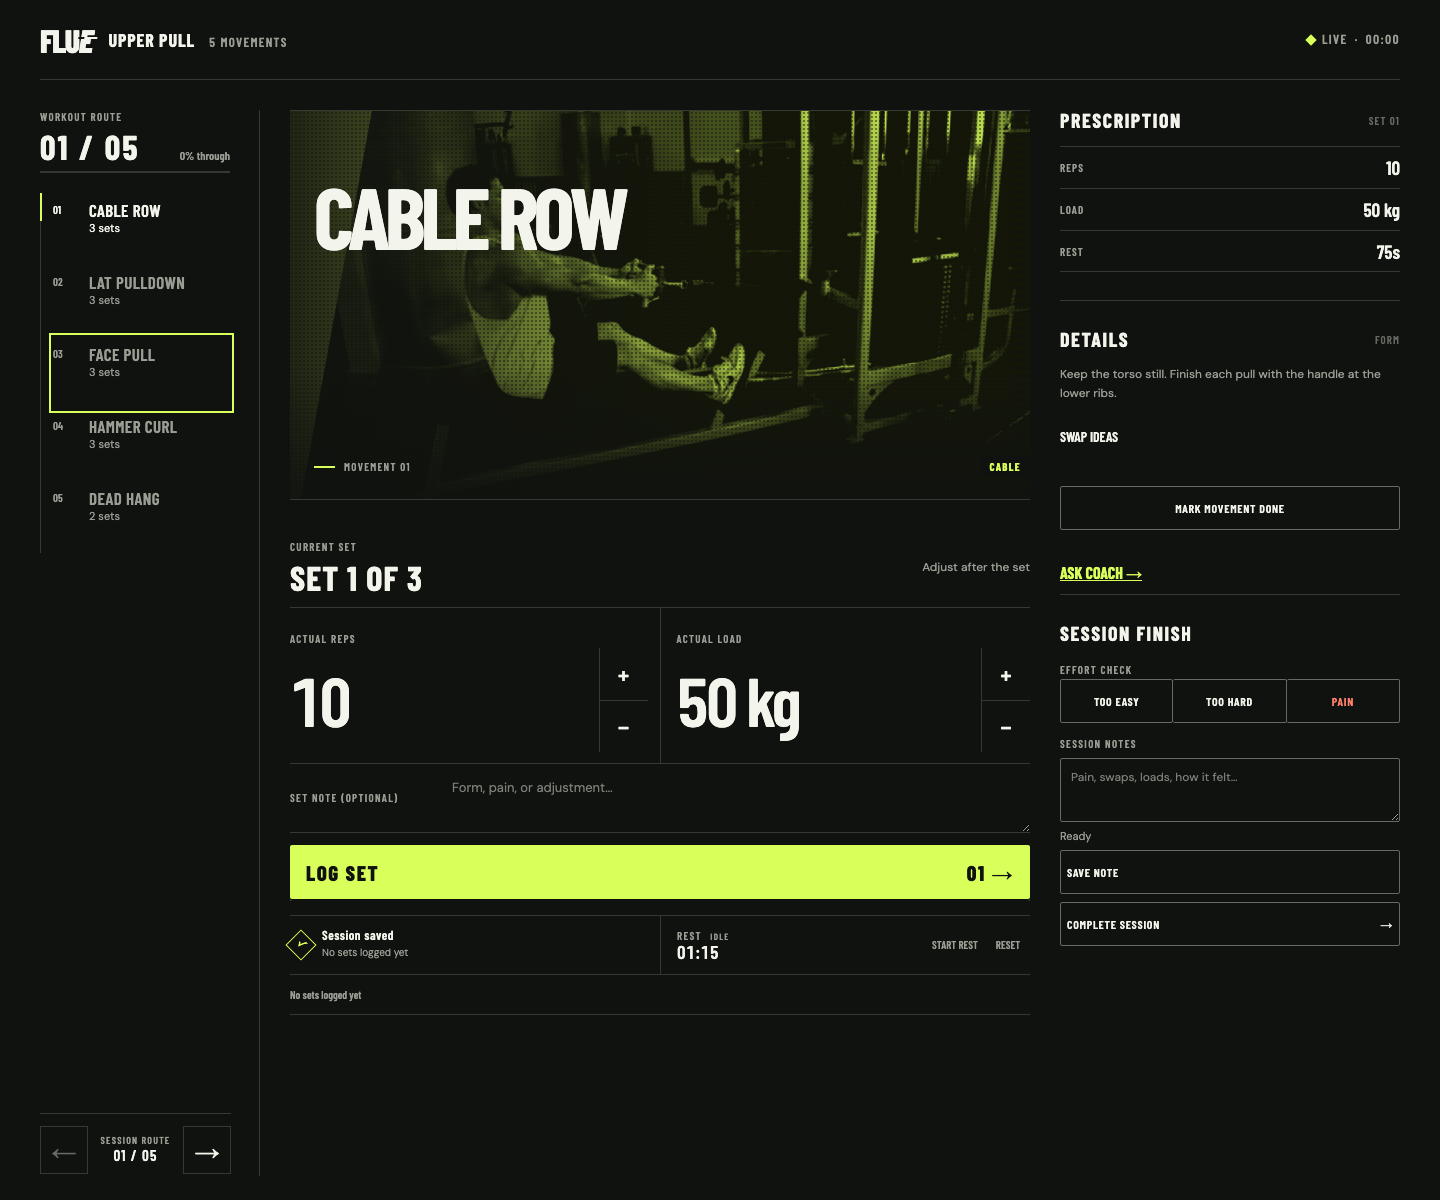
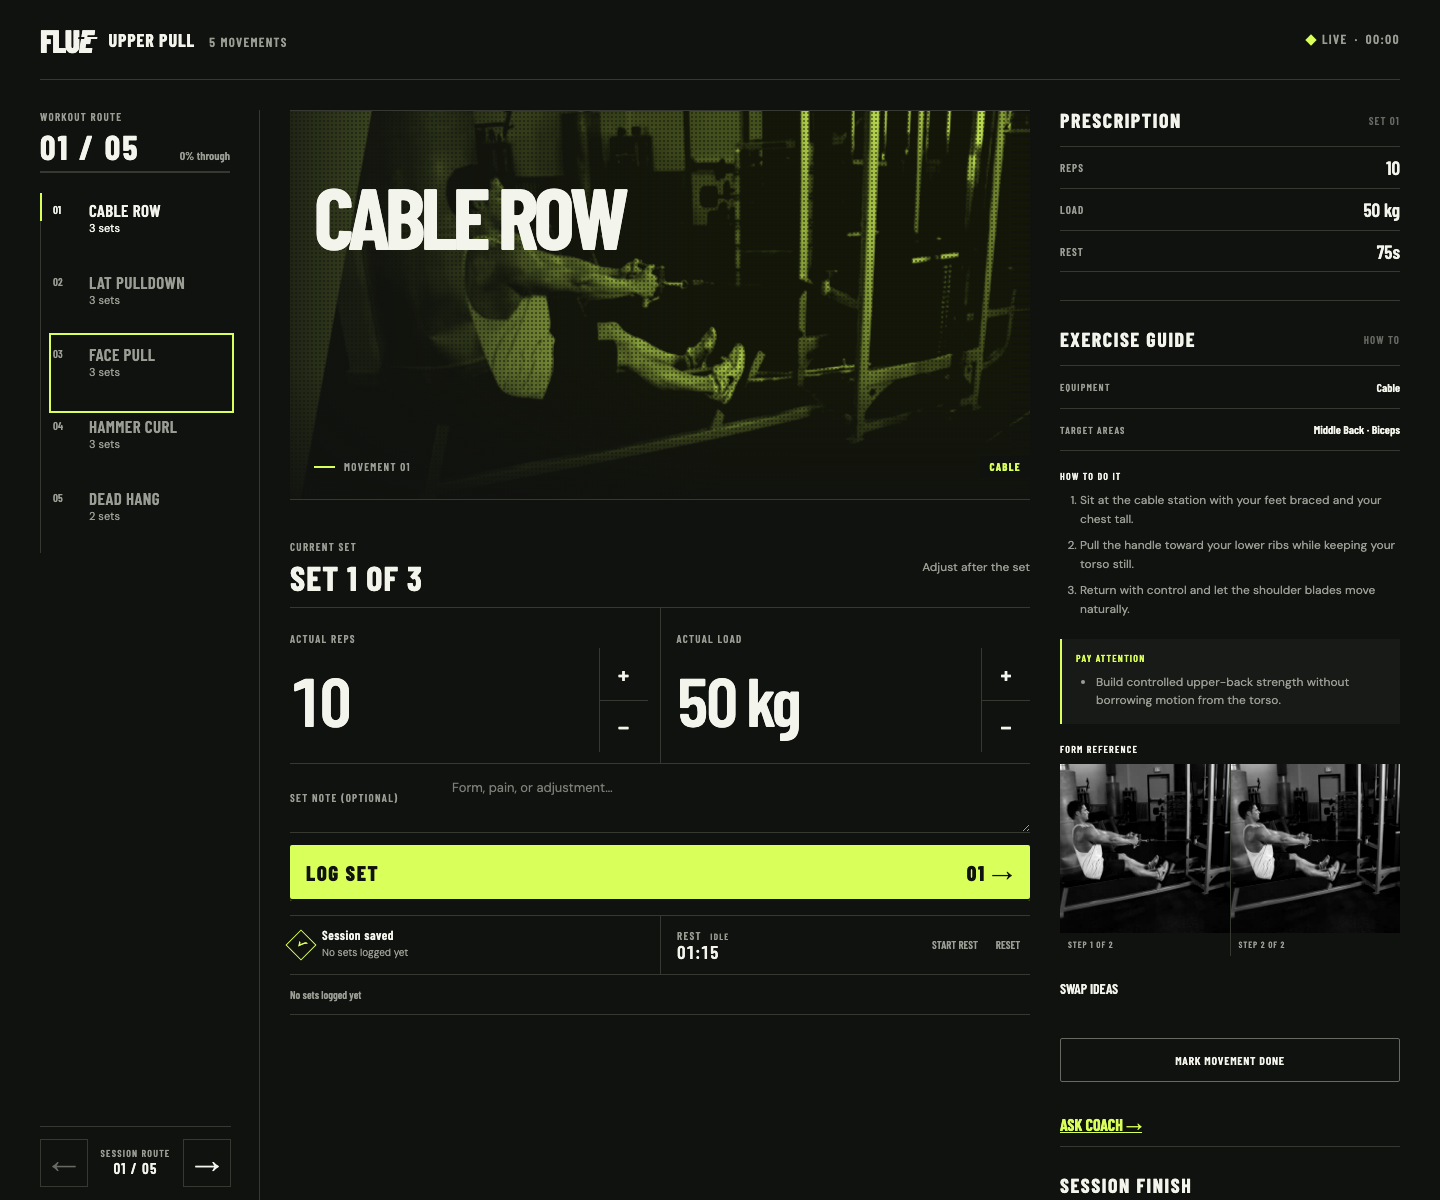
feat: add practical exercise guidance

diff --git a/src/session/LiveTrainingSession.tsx b/src/session/LiveTrainingSession.tsx
@@ -218,7 +218,7 @@ function ExerciseContext({ exercise, index, model }: { exercise: LiveExercise; i
         <MetricStrip metrics={exercise.metrics} variant="context" />
         {exercise.plan_note?.full ? <p class="plan-copy">{exercise.plan_note.full}</p> : null}
       </section>
-      {exercise.has_optional_details ? <section class="context-section details-panel"><header><h2>Details</h2><span>Form</span></header>{exercise.rationale ? <p>{exercise.rationale}</p> : null}<Alternatives exercise={exercise} /></section> : null}
+      {exercise.has_optional_details ? <ExerciseGuide exercise={exercise} /> : null}
       {!model.session.is_completed ? <button type="button" class="movement-done" data-write-control data-done data-completed={exercise.is_done ? "true" : undefined}>{exercise.is_done ? "Movement complete ✓" : "Mark movement done"}</button> : null}
       <a class="text-link coach-link" href={`/chat?profile_id=${encodeURIComponent(model.session.profile_id)}&session_id=${encodeURIComponent(String(model.session.id))}`}>Ask coach →</a>
     </section>
@@ -235,6 +235,44 @@ function ExerciseMedia({ exercise, eager }: { exercise: LiveExercise; eager: boo
       <h2>{exercise.name}</h2>
       <figcaption><span>Movement {String(exercise.index + 1).padStart(2, "0")}</span><strong>{media.caption}</strong></figcaption>
     </figure>
+  );
+}
+
+function ExerciseGuide({ exercise }: { exercise: LiveExercise }) {
+  const guide = exercise.guidance;
+  return (
+    <section class="context-section details-panel exercise-guide">
+      <header><h2>Exercise guide</h2><span>How to</span></header>
+      {guide.equipment || guide.target_areas.length ? (
+        <dl class="guide-facts">
+          {guide.equipment ? <div><dt>Equipment</dt><dd>{guide.equipment}</dd></div> : null}
+          {guide.target_areas.length ? <div><dt>Target areas</dt><dd>{guide.target_areas.join(" · ")}</dd></div> : null}
+        </dl>
+      ) : null}
+      {guide.rationale ? <div class="guide-block"><h3>Why this movement</h3><p>{guide.rationale}</p></div> : null}
+      {guide.instructions.length ? <div class="guide-block"><h3>How to do it</h3><ol>{guide.instructions.map((instruction: string) => <li>{instruction}</li>)}</ol></div> : null}
+      {guide.attention.length ? <div class="guide-block attention-block"><h3>Pay attention</h3><ul>{guide.attention.map((tip: string) => <li>{tip}</li>)}</ul></div> : null}
+      <ExerciseGallery exercise={exercise} />
+      <Alternatives exercise={exercise} />
+    </section>
+  );
+}
+
+function ExerciseGallery({ exercise }: { exercise: LiveExercise }) {
+  if (!exercise.media.gallery.length) return null;
+  const total = exercise.media.gallery.length;
+  return (
+    <div class="guide-block form-reference">
+      <h3>Form reference</h3>
+      <div class="exercise-gallery">
+        {exercise.media.gallery.map((image: string, index: number) => (
+          <figure>
+            <img src={image} alt={`${exercise.name}, step ${index + 1} of ${total}`} loading="lazy" decoding="async" referrerpolicy="no-referrer" onerror="this.closest('figure').remove();" />
+            <figcaption>Step {index + 1} of {total}</figcaption>
+          </figure>
+        ))}
+      </div>
+    </div>
   );
 }
 

diff --git a/docs/design/live-session/comparison.md b/docs/design/live-session/comparison.md
@@ -27,6 +27,7 @@ Approved state authority: [approved-states.png](./approved-states.png)
 | Completed / read-only | [completed-read-only-mobile.png](./implementation/completed-read-only-mobile.png) | Replaces write fields with saved values and locks while review navigation remains available. |
 | Empty session | [empty-mobile.png](./implementation/empty-mobile.png) | Uses one plain editorial empty region and a coach route rather than an empty card. |
 | Long name and guidance | [long-copy-mobile.png](./implementation/long-copy-mobile.png) | Long title uses a taller image plate, metrics reflow to their actual count, and support copy wraps. |
+| Exercise guide | [exercise-guide-mobile.png](./implementation/exercise-guide-mobile.png) | Shows equipment, target areas, ordered setup cues, points to watch, extra form images, and swap ideas below the logger. |
 
 ## Automated browser matrix
 
